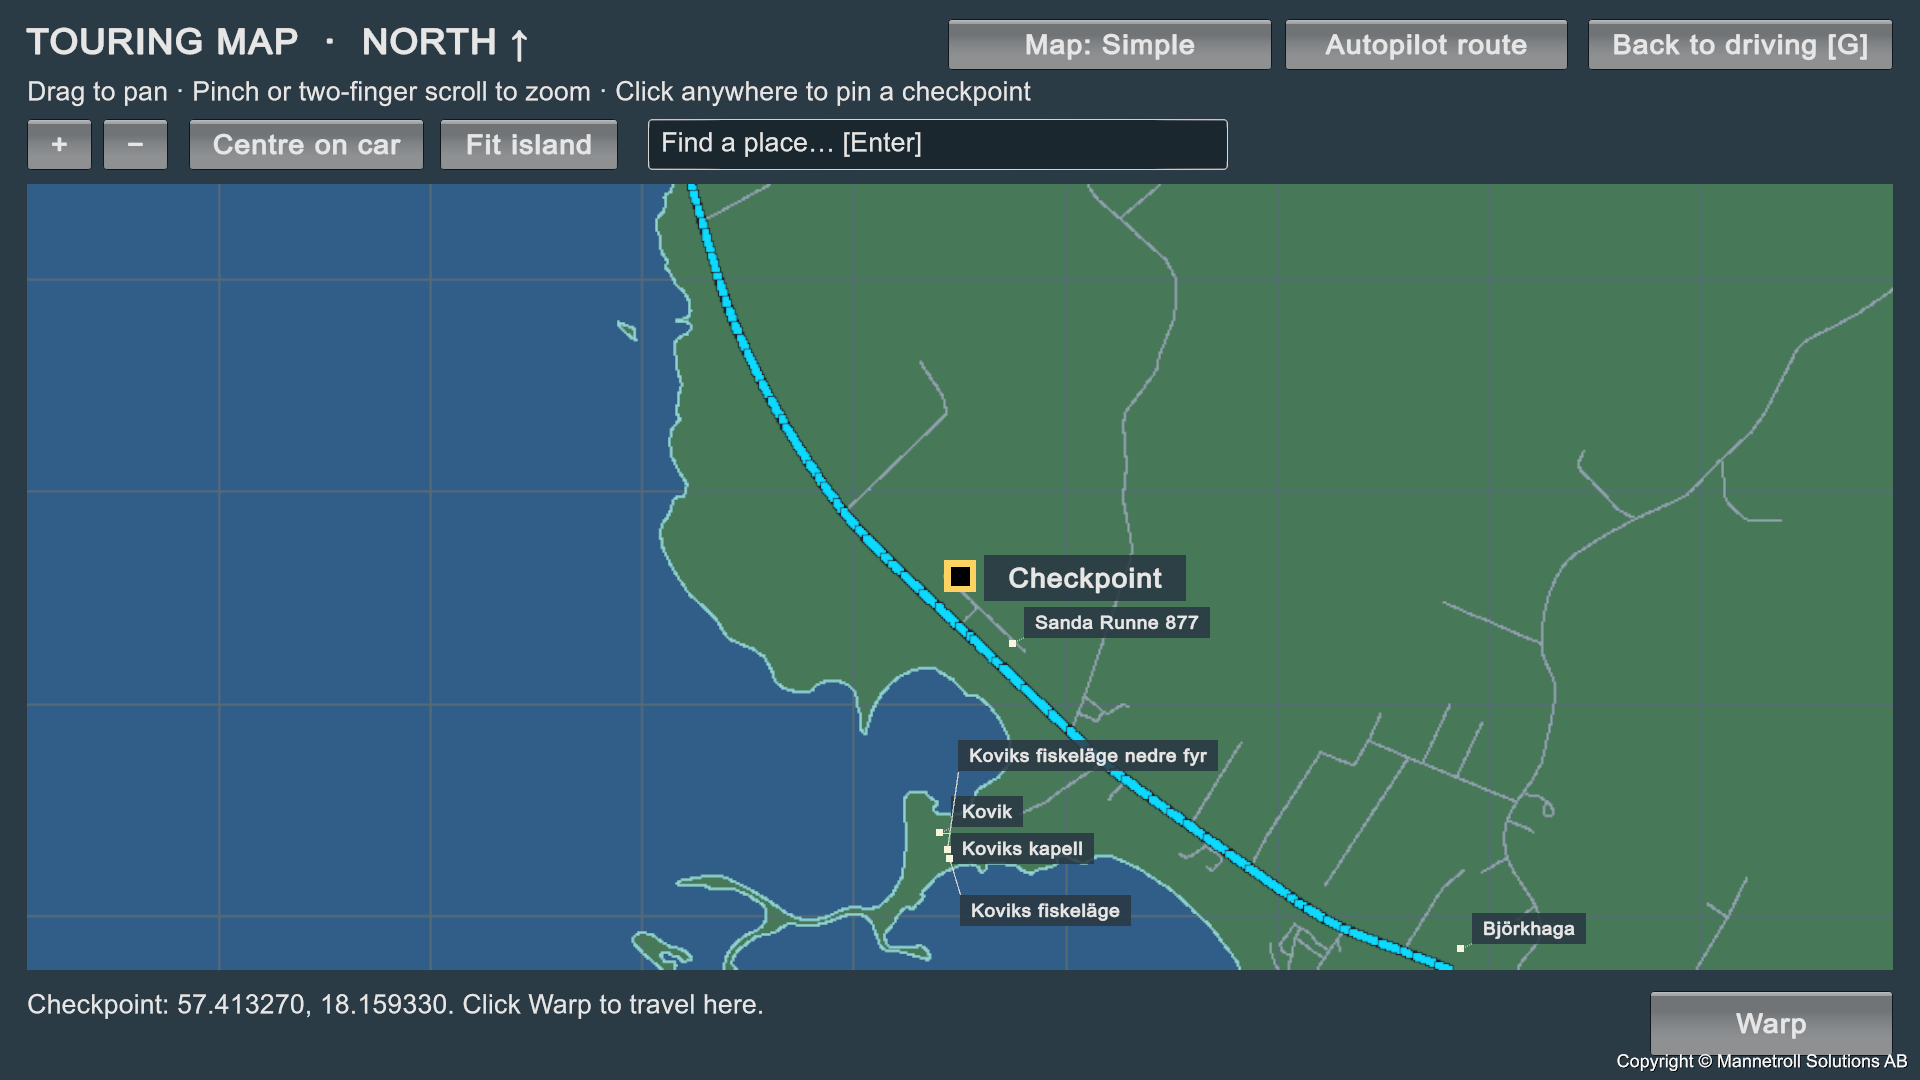
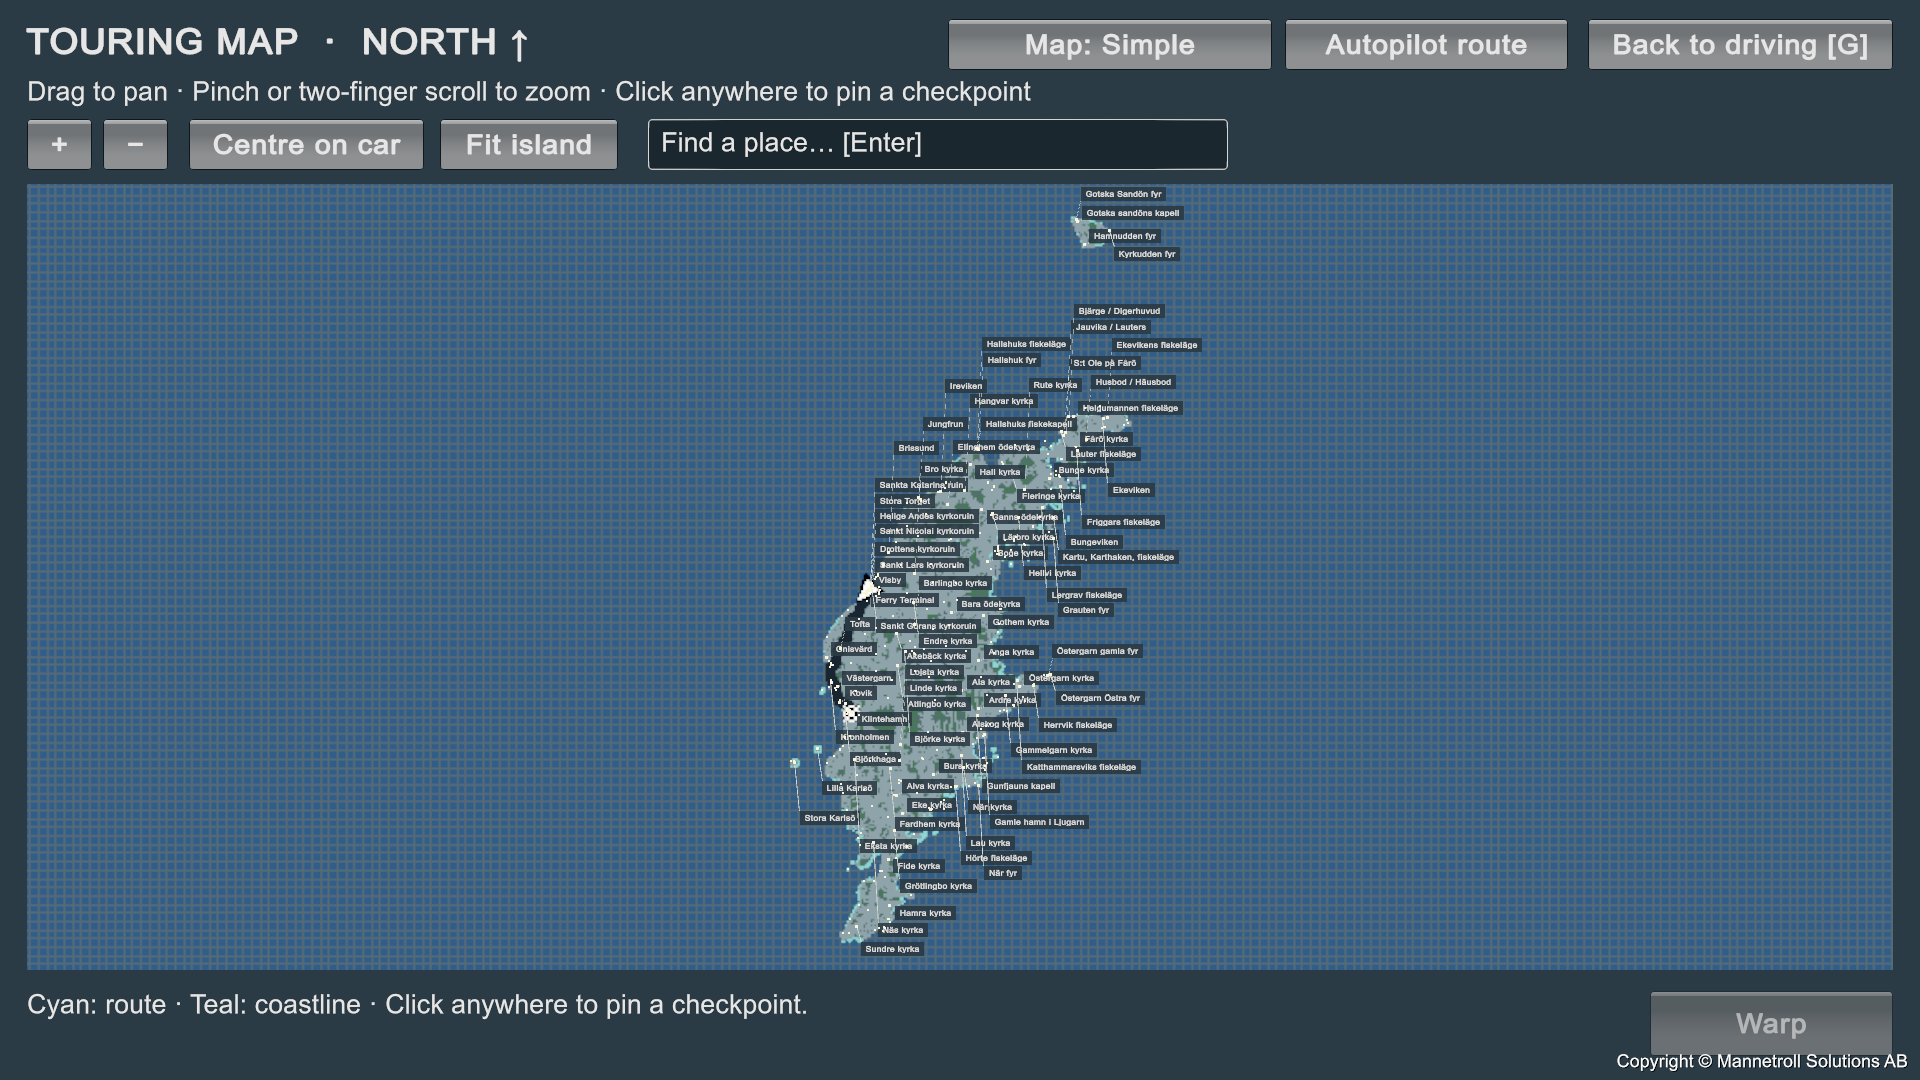
Show all of Gotland in both G-map gallery screenshots

diff --git a/README.md b/README.md
@@ -18,8 +18,8 @@ This public repository contains player documentation, screenshots, a trailer and
     <td width="50%"><a href="images/klintehamn.png"><img src="images/klintehamn.png" alt="Klintehamn harbour, channel and grain terminal" width="100%"></a><br><strong>Klintehamn harbour</strong></td>
   </tr>
   <tr>
-    <td width="50%"><a href="images/map-simple.png"><img src="images/map-simple.png" alt="G map in Simple mode showing the coast, route and landmarks around Kovik" width="100%"></a><br><strong>G map — Simple view</strong></td>
-    <td width="50%"><a href="images/map-topographic.png"><img src="images/map-topographic.png" alt="G map in Topographic mode showing Lantmäteriet terrain, roads and buildings around Kovik" width="100%"></a><br><strong>G map — Topographic view</strong></td>
+    <td width="50%"><a href="images/map-simple.png"><img src="images/map-simple.png" alt="G map in Simple mode showing the whole of Gotland and Fårö" width="100%"></a><br><strong>G map — Simple view</strong></td>
+    <td width="50%"><a href="images/map-topographic.png"><img src="images/map-topographic.png" alt="G map in Topographic mode showing the whole of Gotland and Fårö on Lantmäteriet mapping" width="100%"></a><br><strong>G map — Topographic view</strong></td>
   </tr>
 </table>
 
